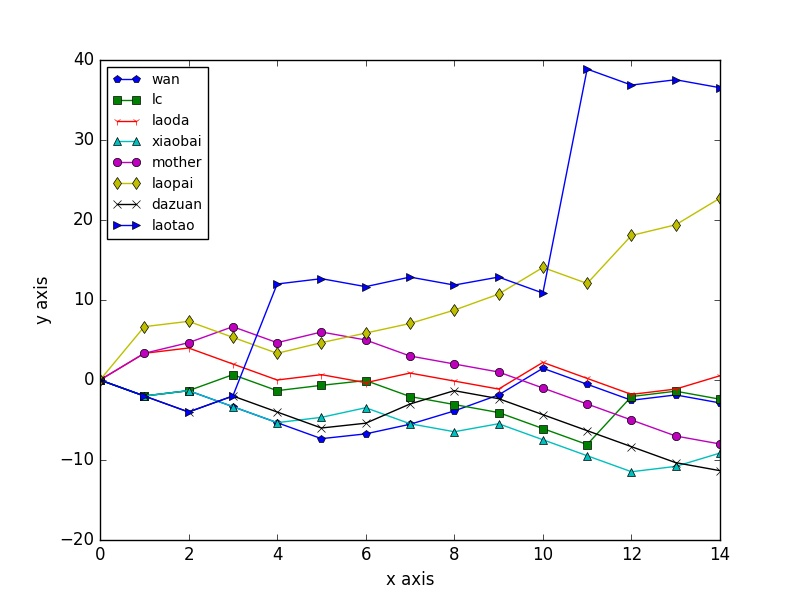
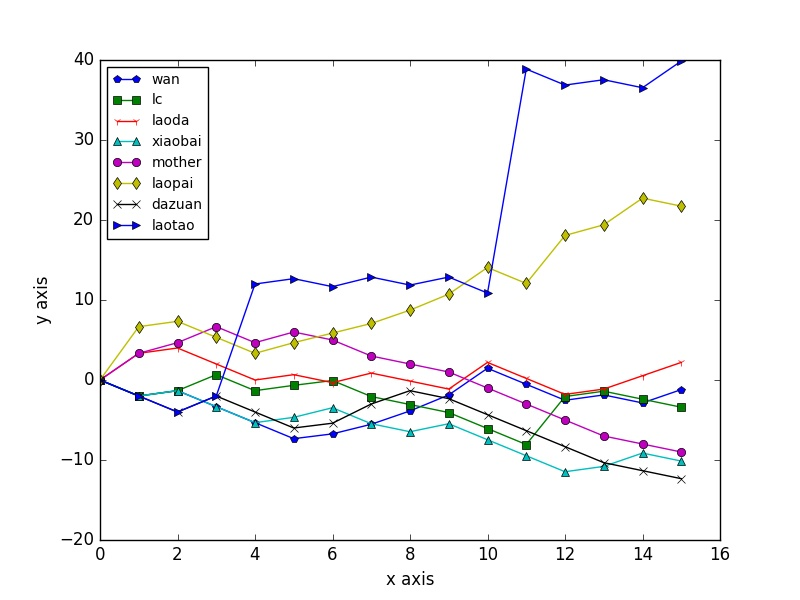
update

diff --git a/README.md b/README.md
@@ -1,23 +1,43 @@
 # E cup guess competition report
 ## real-time ranking
-2016-06-16 01:52:55
+2016-06-16 12:00:10
 
 |rank|name|score|
 |:---:|:---:|:---:|
-|1|laotao|36.53|
-|2|laopai|22.73|
-|3|laoda|0.53|
-|4|lc|-2.40|
-|5|wan|-2.87|
-|6|mother|-8.00|
-|7|xiaobai|-9.13|
-|8|dazuan|-11.33|
+|1|laotao|39.87|
+|2|laopai|21.73|
+|3|laoda|2.20|
+|4|wan|-1.20|
+|5|lc|-3.40|
+|6|mother|-9.00|
+|7|xiaobai|-10.13|
+|8|dazuan|-12.33|
 
 ## Pond
-592.93
+591.27
 
 ## History
 ![image](https://github.com/Anserw/E_Cup/blob/master/plot.jpg)
+### 2016061603 France 2 : 0 Albania
+- handicap: -1.5 / -2
+- scorer: laotao
+- owners:
+ - France: laotao
+ - Albania: mother
+
+
+|name|guess|score change|
+|:---:|:---:|:---:|
+|wan|France|1.67|
+|lc|Albania|-1.00|
+|laoda|France|1.67|
+|xiaobai|Albania|-1.00|
+|mother|Albania|-1.00|
+|laopai|Albania|-1.00|
+|dazuan|Albania|-1.00|
+|laotao|France|3.33|
+|Pond|..|-1.67|
+
 ### 2016061600 Romania 1 : 1 Switzerland
 - handicap: 0 / 0.5
 - scorer: laotao
